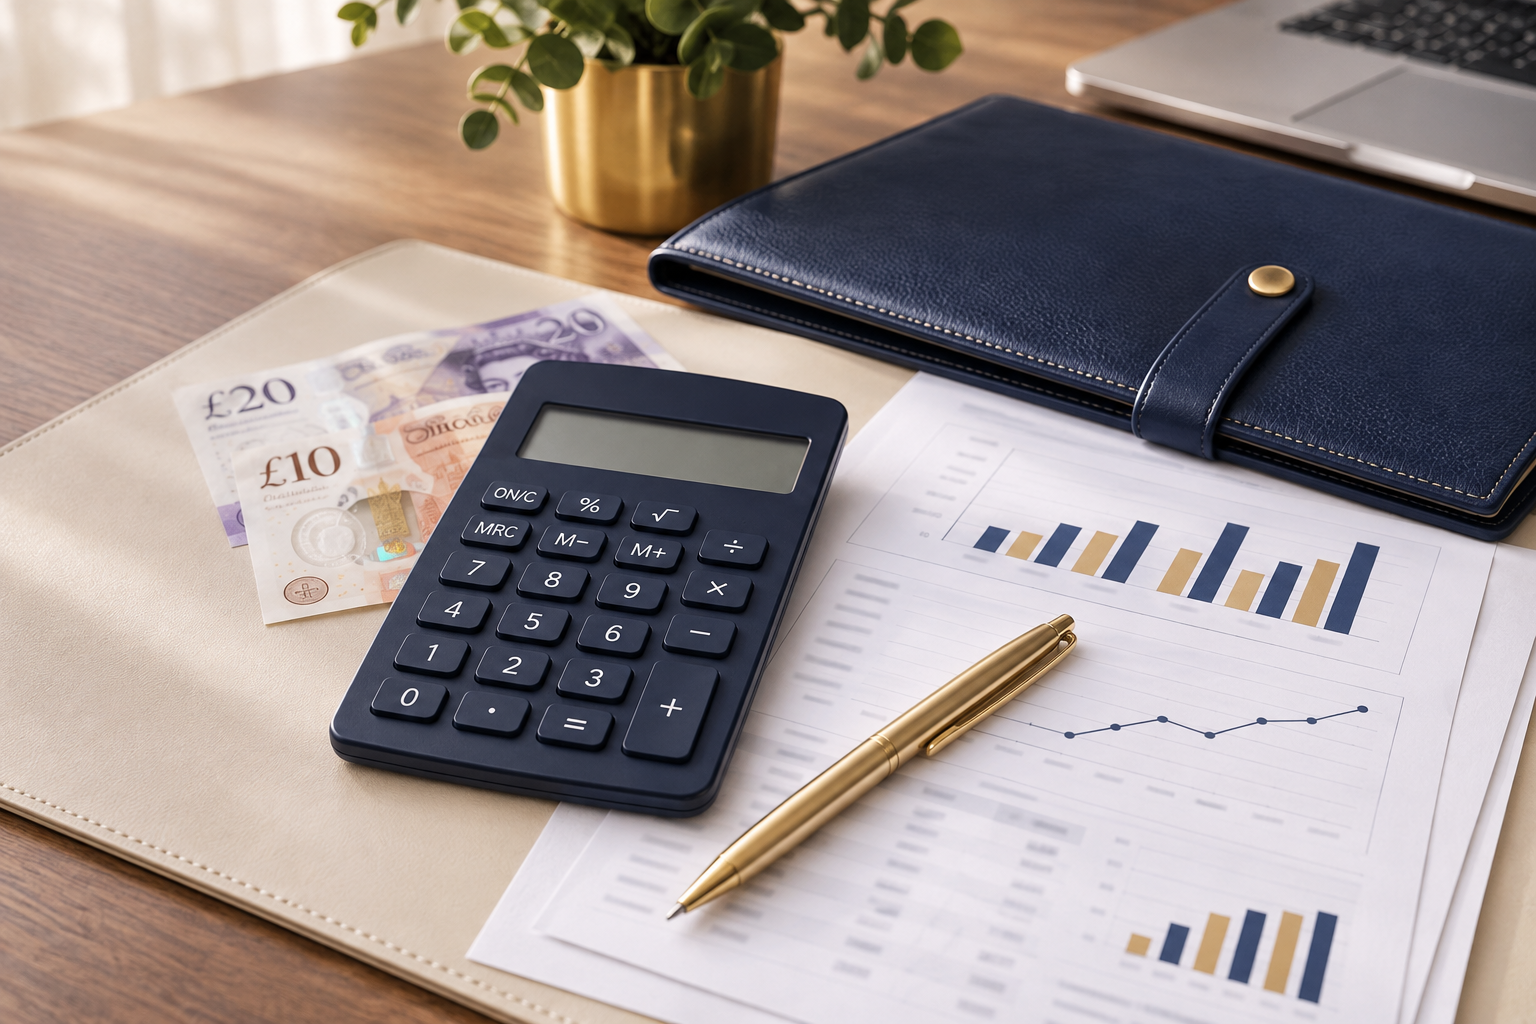
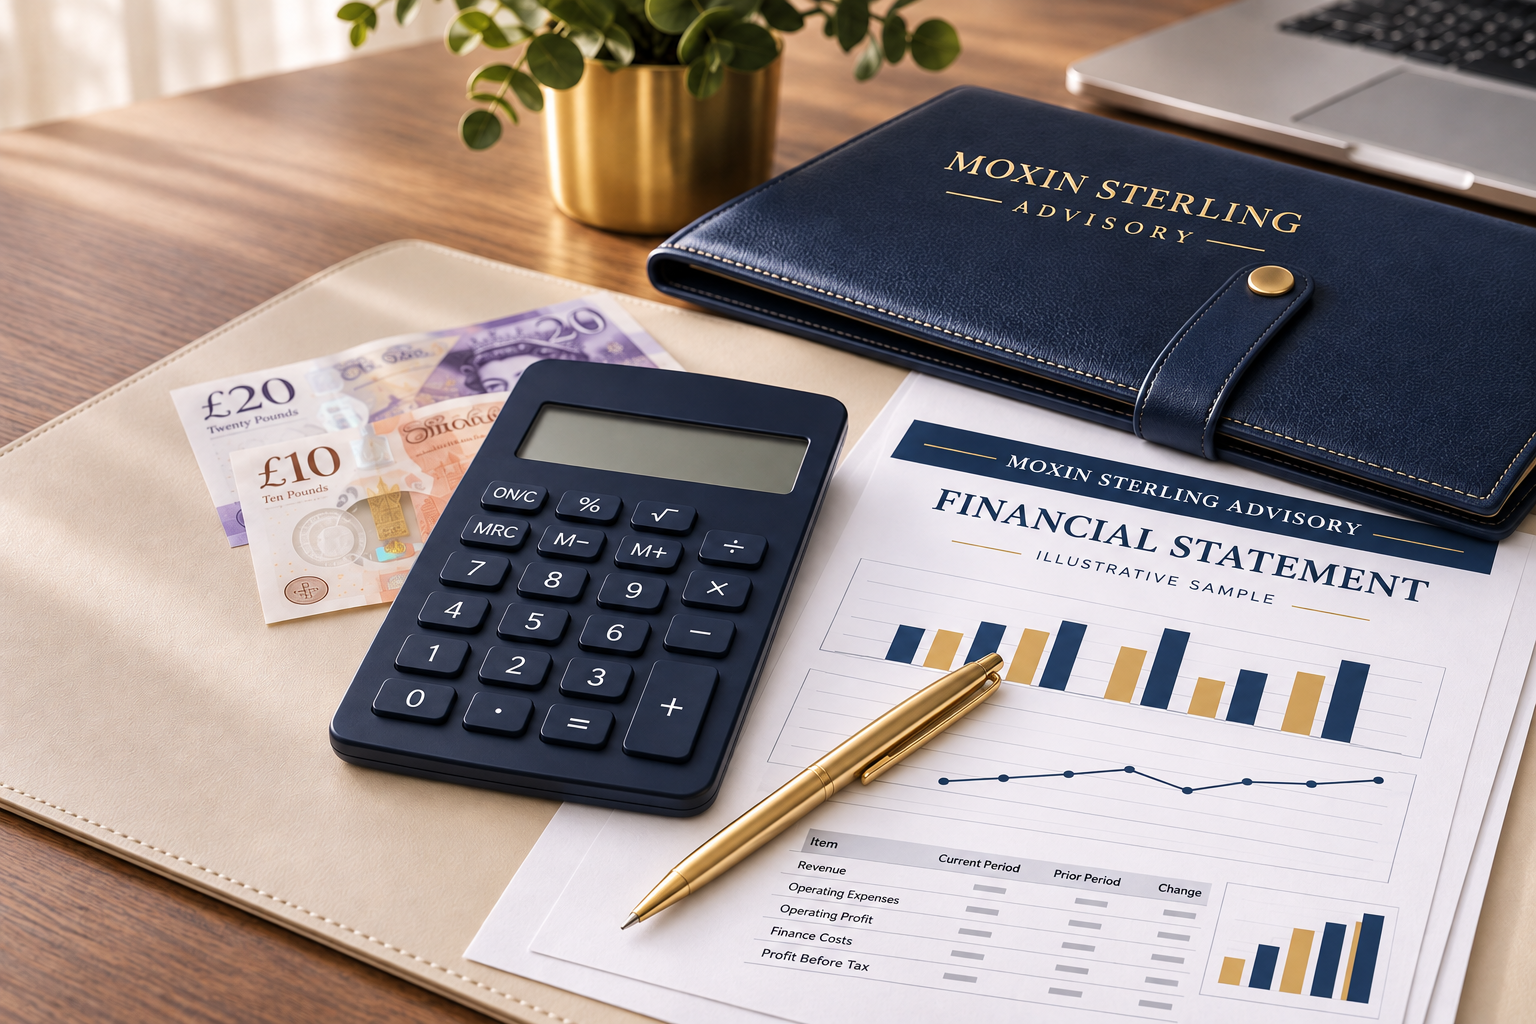
Add company branding and sample financial statement to accounting hero

diff --git a/docs/HERO-IMAGE.md b/docs/HERO-IMAGE.md
@@ -1,7 +1,7 @@
-# Accounting-desk hero illustration
+# Branded financial-statement hero illustration
 
-The latest owner-requested image depicts British pound notes, a dark calculator, accounting papers and graphs, a gold pen and a navy folder. It is generated illustrative artwork, not a photograph of actual premises or real financial information.
+At the owner's request, the accounting-desk illustration now has Moxin Sterling Advisory lettering on the navy folder and on a report headed Financial Statement. The report is marked Illustrative Sample and contains generic charts and table headings, not real client or firm financial results. British pound notes, a calculator and a gold pen remain in the scene.
 
-The original is retained at /workspace/generated_images/exec-bd5796a2-c7c2-4712-93ff-647df1230abf.png and copied unchanged to public/finance-hero.png. Prebuild creates 800px and 1400px WebP variants. Company name and caption remain clear HTML text over the image, and the original MSA logo stays in the header.
+The edited original is preserved at /workspace/generated_images/exec-93900620-42d8-46f4-8c81-d2be6d47a511.png and copied unchanged to public/finance-hero.png. Build preparation generates responsive 800px and 1400px WebP variants. Header branding and the accessible company-name caption remain live website text.
 
-Desktop/tablet use the image. Mobile retains the compact text hero without downloading it. This source update is separate from gh-pages publication.
+The illustration is desktop/tablet-only. Mobile retains the compact text hero. This source update is separate from gh-pages publication.
